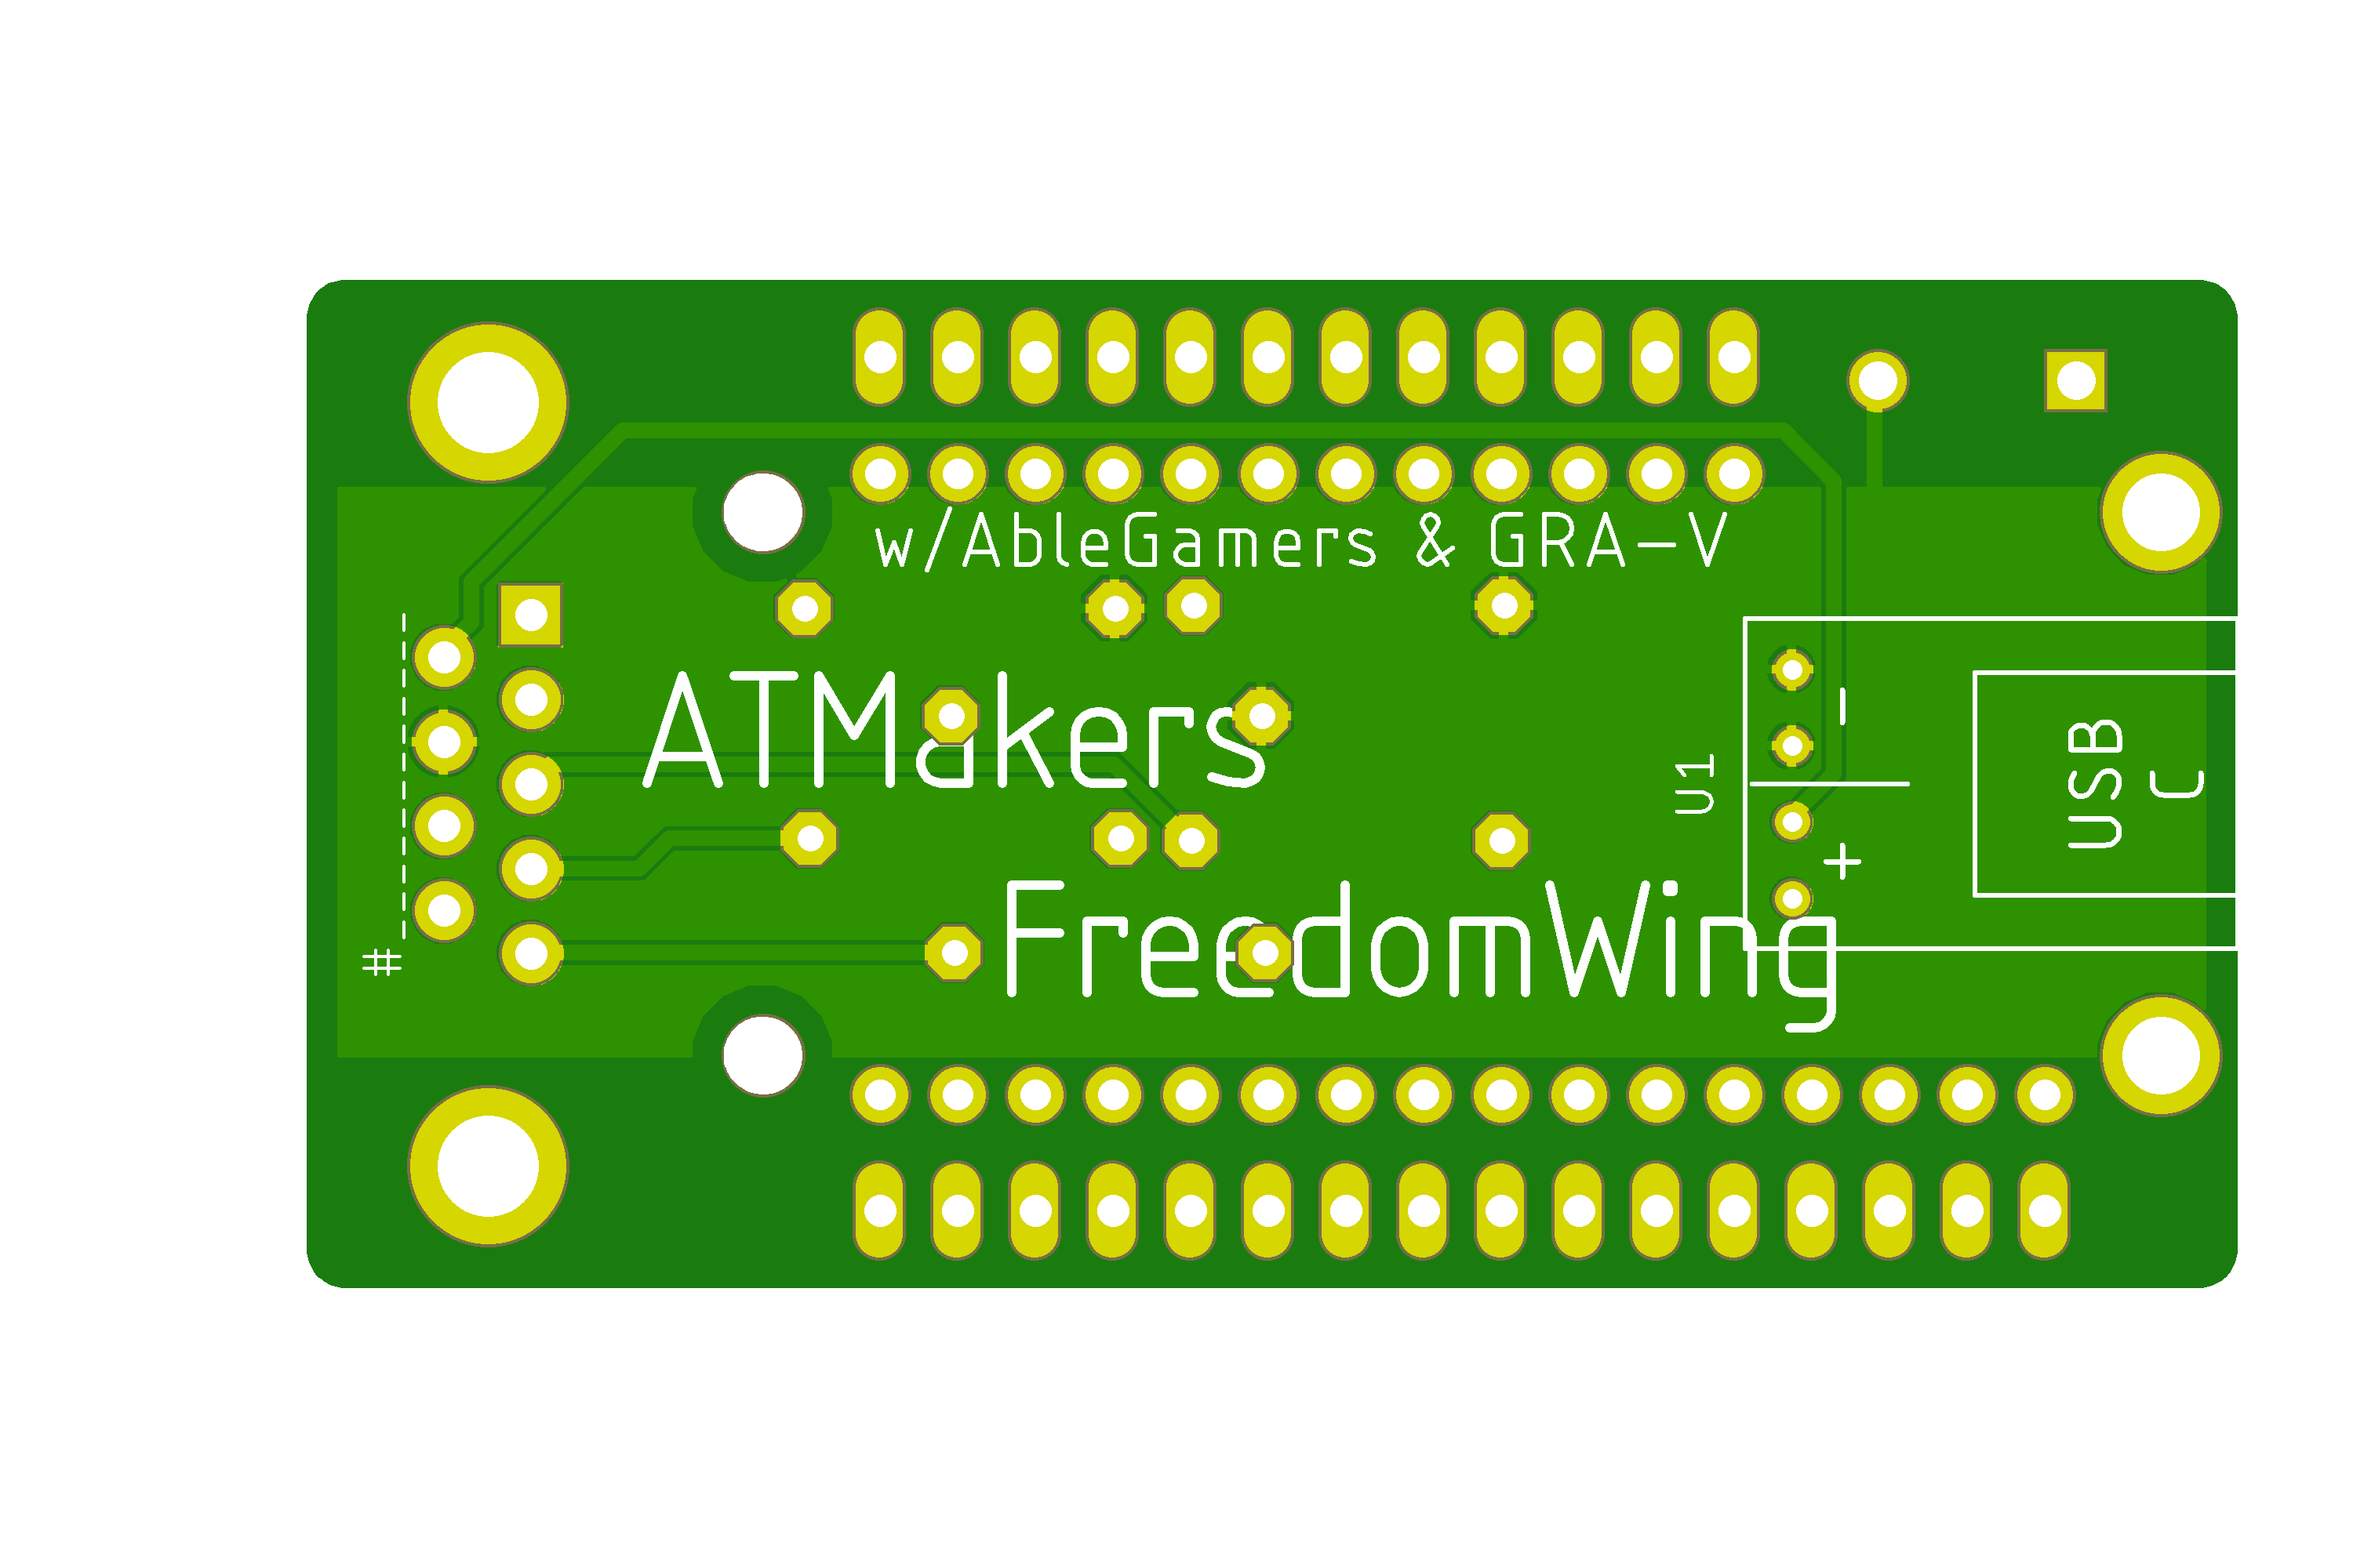
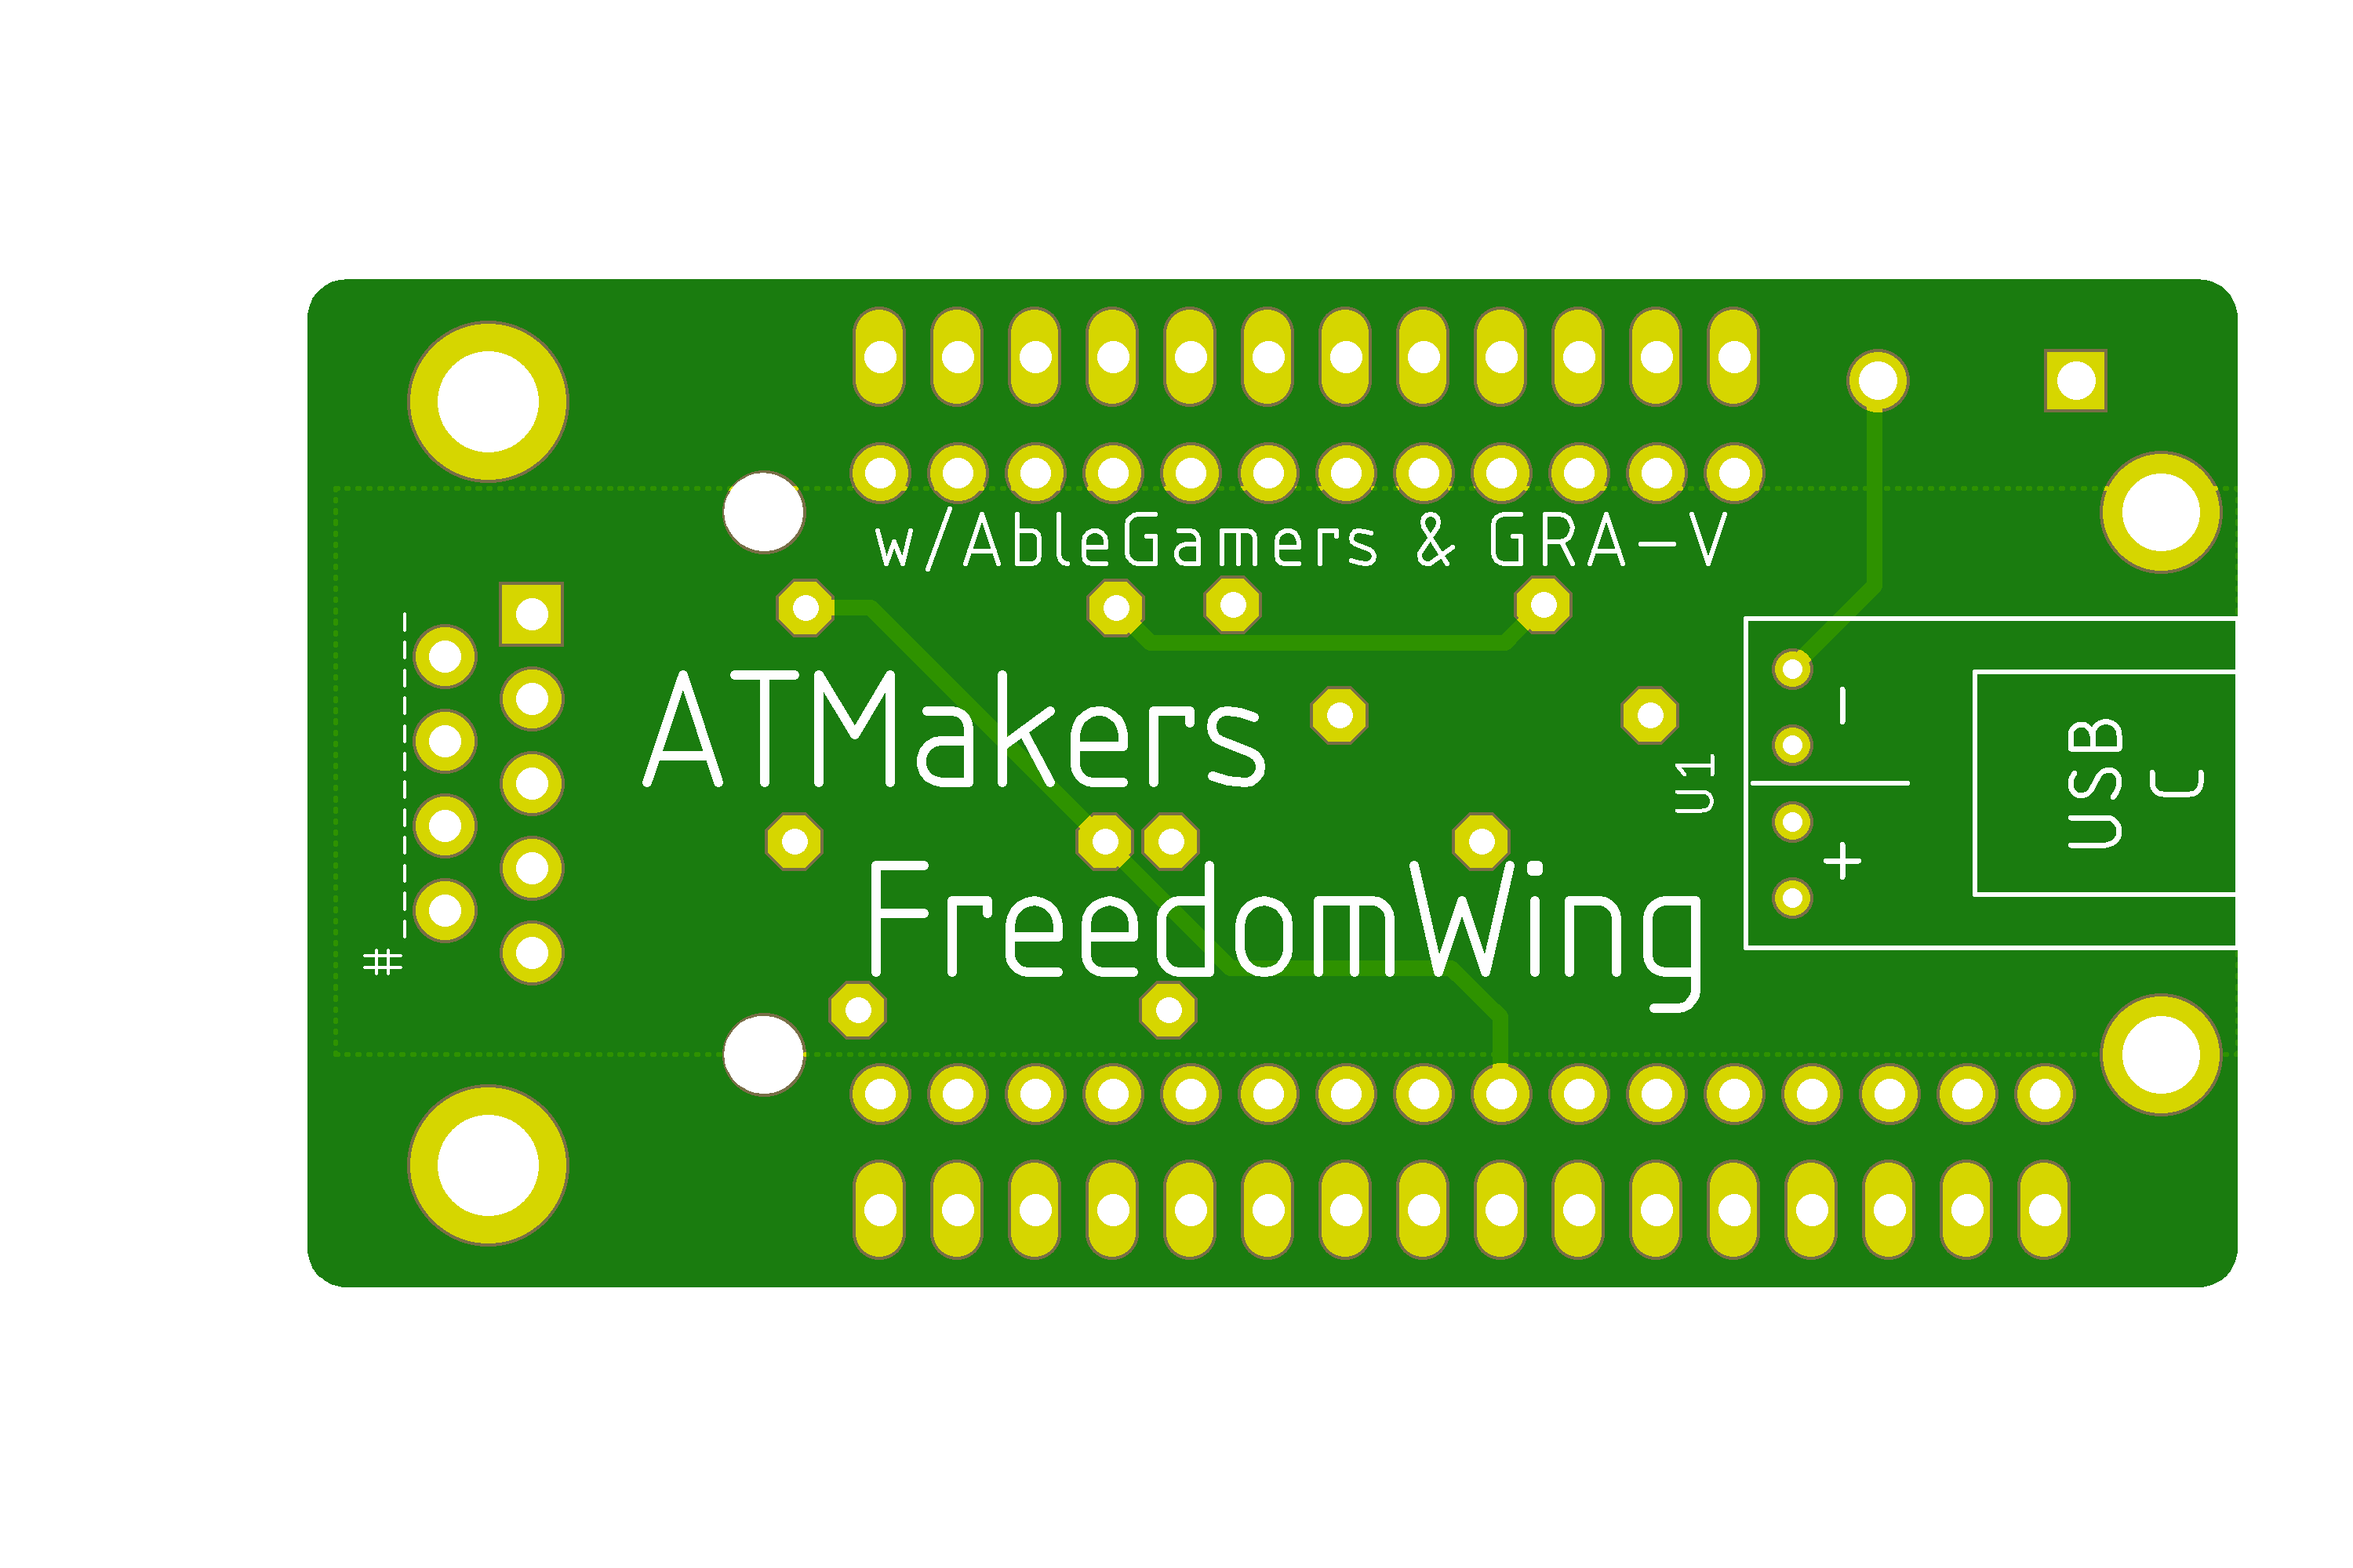
vRestrict +

diff --git a/board/README.md b/board/README.md
@@ -2,7 +2,7 @@
 
 ## The Mod
 
-The USB-C PD [module](https://smile.amazon.com/gp/product/B08LDJBN8P) is small. I removed the Feather USB and BAT connections, and the Polulu boost converter. Since the Adafruit Feather is on top, I placed the PD module on the bottom of the FreedomWing board. Yeah, there's some work to be done to move some vias around to not stomp on the silkscreen, but we'll get there before the boards get fabricated.
+The USB-C PD [module](https://smile.amazon.com/gp/product/B08LDJBN8P) is small. I removed the Feather USB and BAT connections, and the Polulu boost converter. Since the Adafruit Feather is on top, I placed the PD module on the bottom of the FreedomWing board.
 
 ![bottom](./FreedomWing-PD-mfg-bot.png)
 
